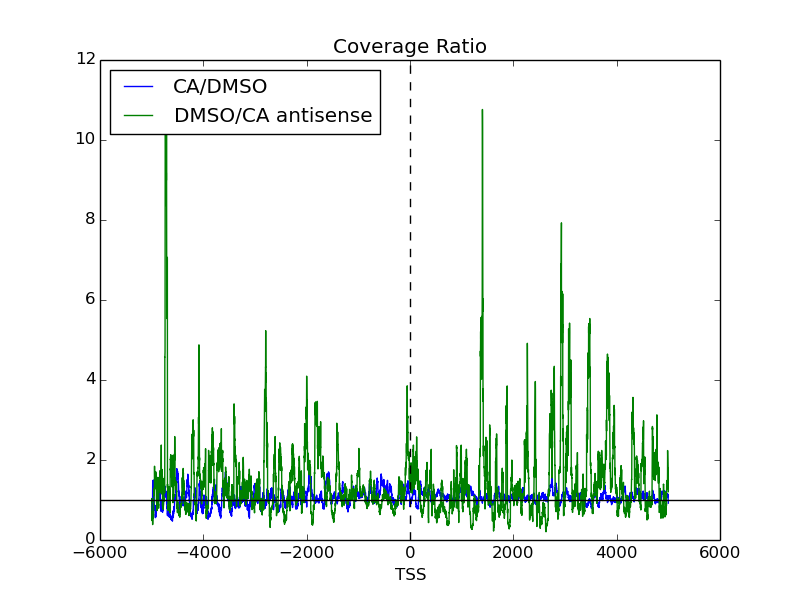
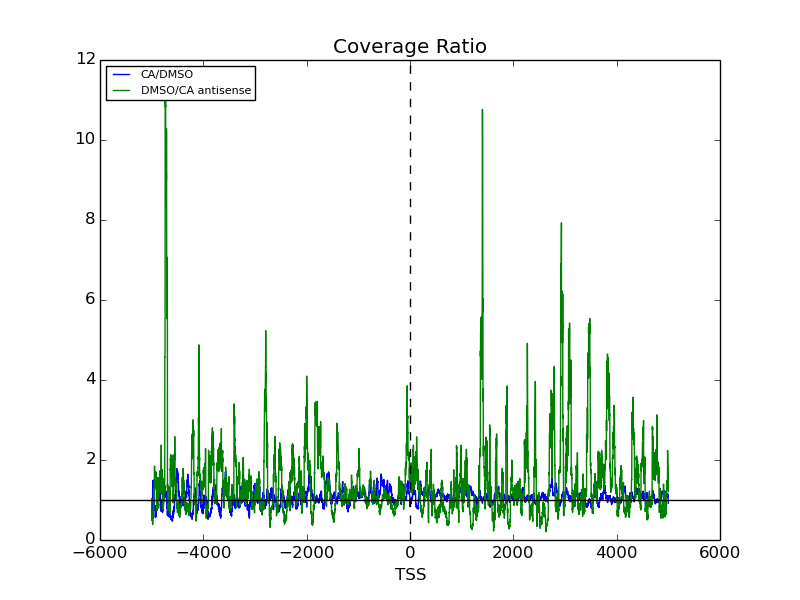
updates

Changed region(s): [[0.125, 0.09, 0.5, 0.24]]

diff --git a/src/metagene_TSS.py b/src/metagene_TSS.py
@@ -140,7 +140,7 @@ def run(file1,file2,file3):
     plt.plot(x1,CAantiarray[window-1000:window+1000],color='y')
     plt.xlabel('TSS')
     plt.axvline(x=0.,color='k',ls='dashed')
-    plt.legend(['DMSO', 'CA', 'DMSO antisense','CA antisense'], loc='lower left')
+    plt.legend(['DMSO', 'CA', 'DMSO antisense','CA antisense'], loc='lower right')
     plt.savefig(figout + '/metagene_TSS.png')
     
     F1 = plt.figure()
